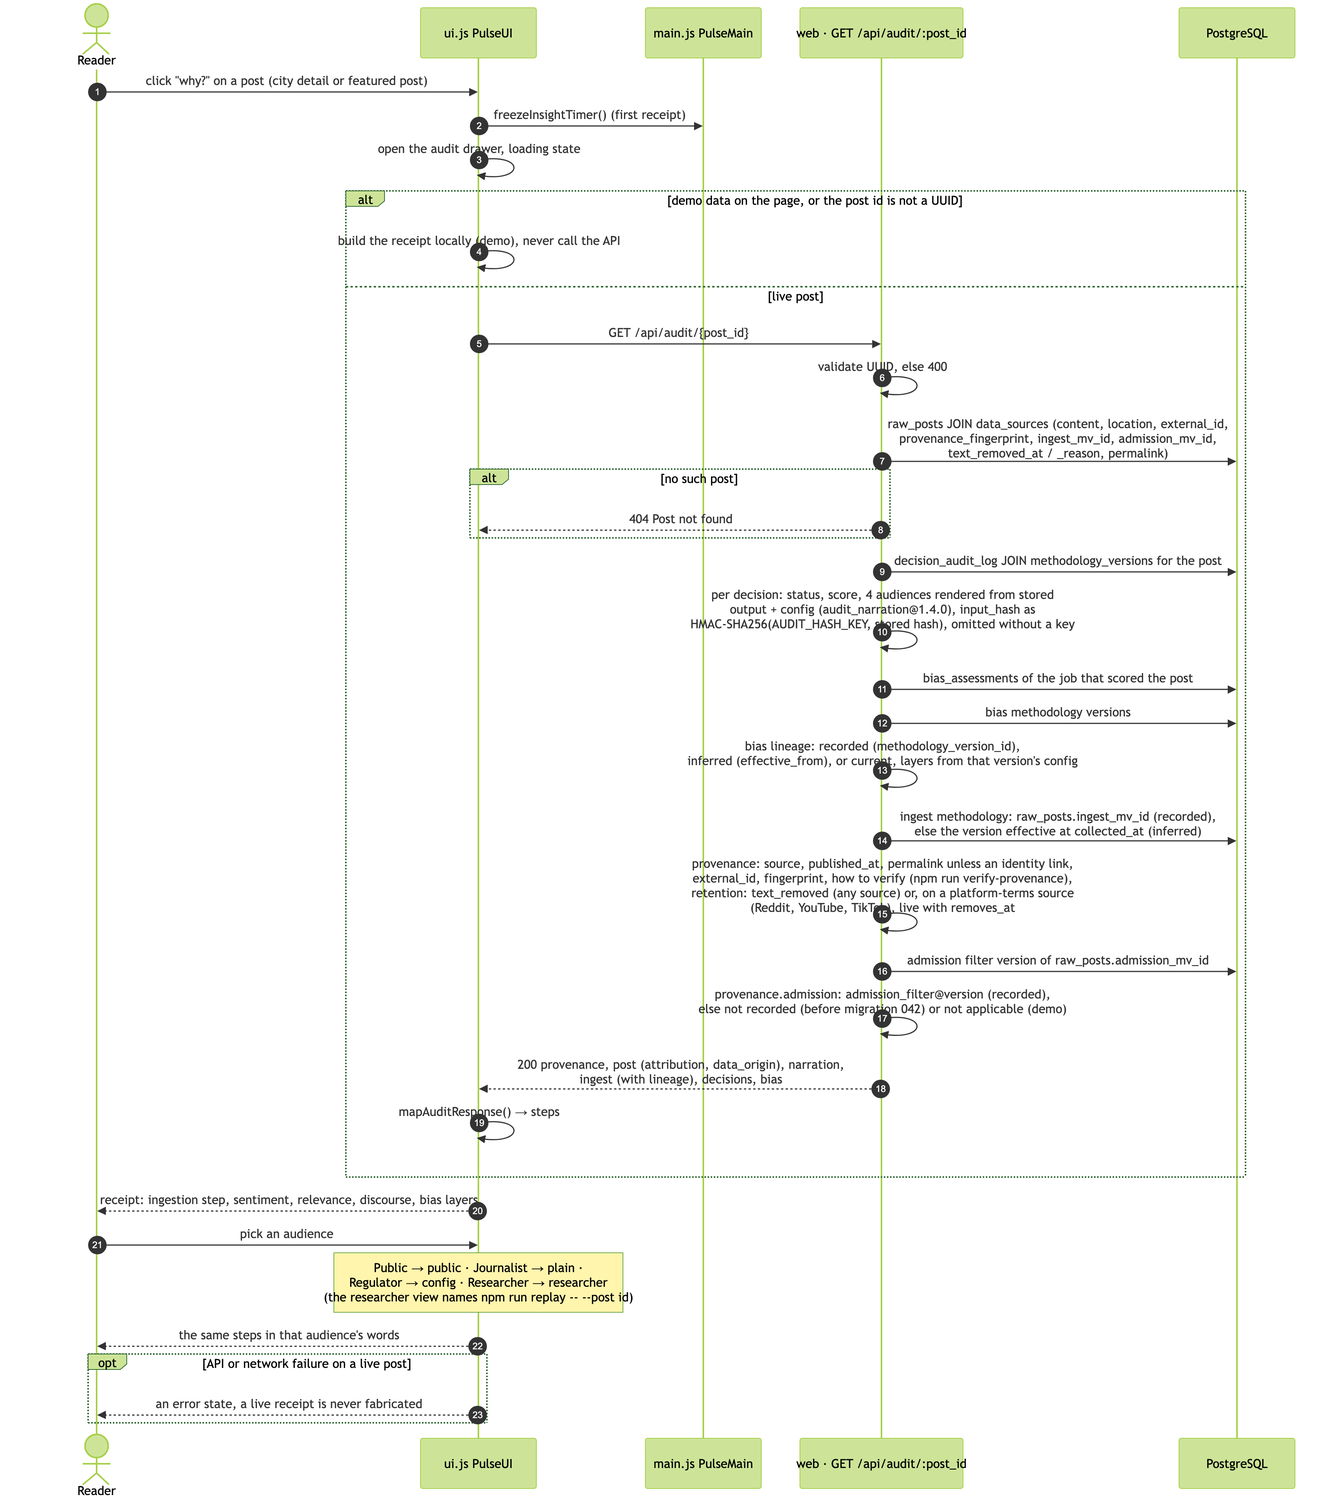
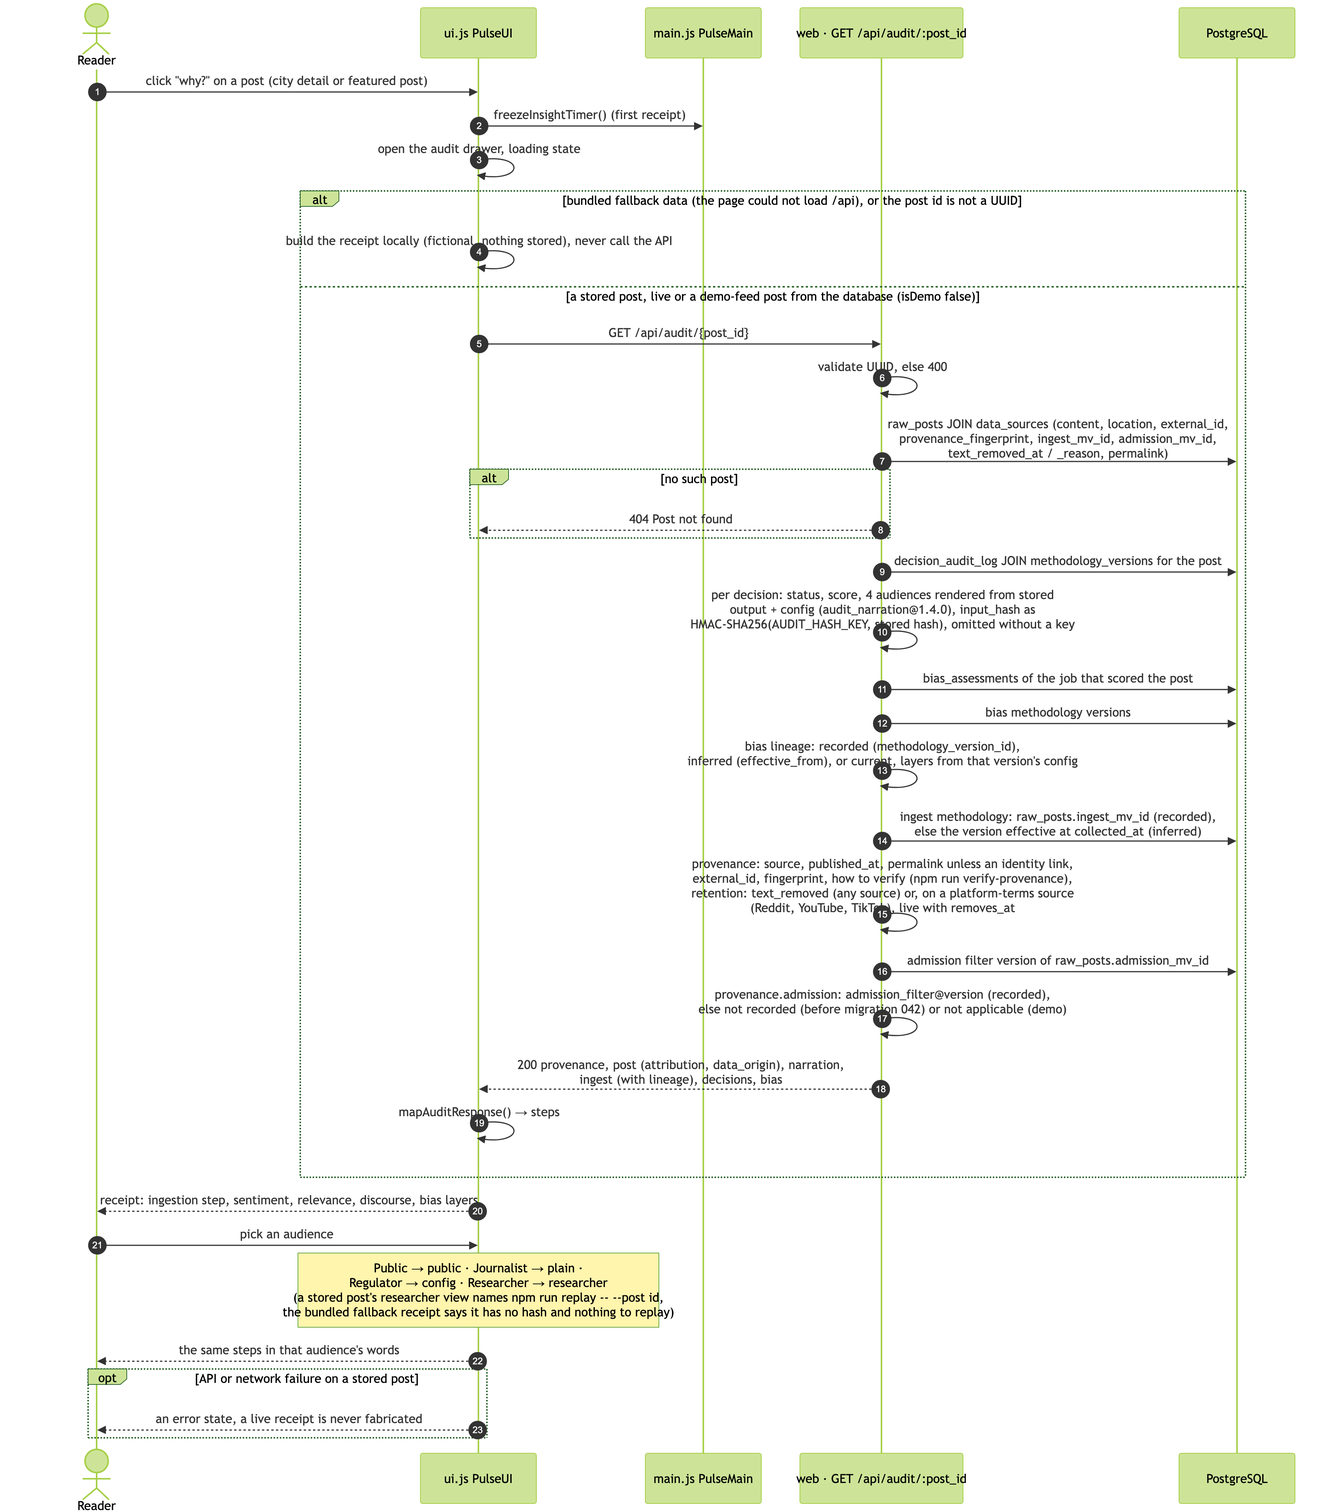
Docs: demo embeddings depend on the service; fallback receipts only skip the API
Copilot review on PR #40:
- Spec §12, data-flow-demo-and-retention and retention-lifecycle said
  every demo post is queued for embedding. populate.js queues them only
  when the run has embeddings enabled and the service reports
  model_loaded; standup passes --no-embed otherwise, and a later
  populate --once backfills the trailing hour.
- audit-receipt: only bundled fallback data (isDemo) or a non-UUID id
  builds the receipt locally; a stored demo-feed post (isDemo false) goes
  to GET /api/audit like a live one. The researcher note now separates a
  stored post (npm run replay) from the bundled fallback receipt (no hash,
  nothing to replay), and the error branch names stored posts.
- §21 describes the about panel's viewport bound and the new e2e case.

PNGs and HTML re-rendered; MANIFEST sizes for data-flow-demo-and-retention
(5342x4832) and audit-receipt (3452x3912). render.sh --check: 21/21 ok.

diff --git a/docs/diagrams/sequences/audit-receipt.html b/docs/diagrams/sequences/audit-receipt.html
@@ -29,7 +29,7 @@
 <pre class="mermaid">
 %% Title: Sequence · the "why?" audit receipt
 %% Summary: What happens when a reader opens a post's receipt: the drawer request, the queries behind GET /api/audit/:post_id, the provenance and lineage it adds, and the four audience views the drawer switches between.
-%% Sources: public/js/ui.js (openAudit, mapAuditResponse, AUDIENCES), src/routes/audit.js, src/config/{audit-narration,bias-lineage,bias-vocabulary,source-registry,data-mode}.js, src/collectors/retention.js (retentionStatus), src/db/migrations/042_admission_filter.sql. Updated 2026-09-30. Spec: TECHNICAL_SPEC.md sections 7 (GET /api/audit/:post_id), 8 (provenance), 10 (explainability chain, audiences).
+%% Sources: public/js/ui.js (openAudit, mapAuditResponse, AUDIENCES), src/routes/audit.js, src/config/{audit-narration,bias-lineage,bias-vocabulary,source-registry,data-mode}.js, src/collectors/retention.js (retentionStatus), src/db/migrations/042_admission_filter.sql. Updated 2026-10-01. Spec: TECHNICAL_SPEC.md sections 7 (GET /api/audit/:post_id), 8 (provenance), 10 (explainability chain, audiences).
 sequenceDiagram
   autonumber
   actor Reader
@@ -41,9 +41,9 @@ sequenceDiagram
   Reader-&gt;&gt;UI: click "why?" on a post (city detail or featured post)
   UI-&gt;&gt;Main: freezeInsightTimer() (first receipt)
   UI-&gt;&gt;UI: open the audit drawer, loading state
-  alt demo data on the page, or the post id is not a UUID
-    UI-&gt;&gt;UI: build the receipt locally (demo), never call the API
-  else live post
+  alt bundled fallback data (the page could not load /api), or the post id is not a UUID
+    UI-&gt;&gt;UI: build the receipt locally (fictional, nothing stored), never call the API
+  else a stored post, live or a demo-feed post from the database (isDemo false)
     UI-&gt;&gt;API: GET /api/audit/{post_id}
     API-&gt;&gt;API: validate UUID, else 400
     API-&gt;&gt;DB: raw_posts JOIN data_sources (content, location, external_id,&lt;br/&gt;provenance_fingerprint, ingest_mv_id, admission_mv_id,&lt;br/&gt;text_removed_at / _reason, permalink)
@@ -65,9 +65,9 @@ sequenceDiagram
   UI--&gt;&gt;Reader: receipt: ingestion step, sentiment, relevance, discourse, bias layers
 
   Reader-&gt;&gt;UI: pick an audience
-  Note over UI: Public → public · Journalist → plain ·&lt;br/&gt;Regulator → config · Researcher → researcher&lt;br/&gt;(the researcher view names npm run replay -- --post id)
+  Note over UI: Public → public · Journalist → plain ·&lt;br/&gt;Regulator → config · Researcher → researcher&lt;br/&gt;(a stored post's researcher view names npm run replay -- --post id,&lt;br/&gt;the bundled fallback receipt says it has no hash and nothing to replay)
   UI--&gt;&gt;Reader: the same steps in that audience's words
-  opt API or network failure on a live post
+  opt API or network failure on a stored post
     UI--&gt;&gt;Reader: an error state, a live receipt is never fabricated
   end
 </pre>

diff --git a/docs/diagrams/flows/data-flow-demo-and-retention.html b/docs/diagrams/flows/data-flow-demo-and-retention.html
@@ -40,7 +40,7 @@ flowchart LR
     M9{"--once, no --force: hour already holds&lt;br/&gt;--size demo posts, no live posts and&lt;br/&gt;collection unavailable? (checked first)"}:::done
     M4["populate --loop (profile demo)&lt;br/&gt;every DEMO_FEED_INTERVAL_MS (150 s):&lt;br/&gt;DEMO_FEED_BATCH posts (default 16,&lt;br/&gt;two per category) only while the hour has no live posts"]:::done
     M5["fictional posts: text starts with [Demo],&lt;br/&gt;raw_payload demo: true, fictional: true,&lt;br/&gt;under data_sources demo_#lt;category#gt;&lt;br/&gt;(source_type demo, active false)"]:::done
-    M6["normalisePost → raw_posts (collected_at = now)&lt;br/&gt;→ saveSentiment / saveRelevance / saveDQI&lt;br/&gt;with audit rows → runBiasChecks&lt;br/&gt;→ embed jobs; processing_jobs triggered_by demo"]:::done
+    M6["normalisePost → raw_posts (collected_at = now)&lt;br/&gt;→ saveSentiment / saveRelevance / saveDQI&lt;br/&gt;with audit rows → runBiasChecks&lt;br/&gt;→ embed jobs only when embeddings are enabled and&lt;br/&gt;the service is ready (standup otherwise passes --no-embed;&lt;br/&gt;a later --once backfills the hour); processing_jobs triggered_by demo"]:::done
     M7["labelled on the way out: data_mode on /api/health,&lt;br/&gt;demo_posts + data_mode per city row,&lt;br/&gt;data_origin on receipts → DEMO kicker,&lt;br/&gt;Demo data markers, demo receipt wording"]:::done
     M8["no demo post written;&lt;br/&gt;the page reads LIVE"]:::done
     M10["collection and batch skipped; only missing&lt;br/&gt;demo embeddings are backfilled"]:::done

diff --git a/docs/diagrams/states/retention-lifecycle.html b/docs/diagrams/states/retention-lifecycle.html
@@ -33,7 +33,7 @@
 stateDiagram-v2
   direction LR
 
-  [*] --&gt; detail : stored (raw_posts, scores, audit rows, embedding for a live post with relevance ≥ 1/21 and for every demo post)
+  [*] --&gt; detail : stored (raw_posts, scores, audit rows) with an embed job for a live post with relevance ≥ 1/21 and for a demo post, when the run has embeddings enabled and the service ready (a later populate --once backfills the hour)
 
   state "Tier 1 · full detail&lt;br/&gt;shown on the page for its trailing hour,&lt;br/&gt;receipt available" as detail
   state "text blanked, platform terms&lt;br/&gt;content = the source's removal notice,&lt;br/&gt;text_removed_at set, embedding deleted&lt;br/&gt;in the same transaction (G3);&lt;br/&gt;scores, audit rows, hash, fingerprint kept" as blanked

diff --git a/docs/diagrams/MANIFEST-author.md b/docs/diagrams/MANIFEST-author.md
@@ -15,14 +15,14 @@ How to verify the artifacts: `bash docs/diagrams/render.sh --check` confirms tha
 | 5 | `flows/collection-2-fetch-store-score.mmd` | 6492×1372 | src/collectors/{index,base,http,netguard,transport,robots,normalize,identity,provenance,errors,redact,state,refusal,cycle,runner,ai-filter}.js, src/workers/{collect,ingest}.worker.js, src/pipeline/{ingest,sentiment,relevance,discourse,methodology}.js, src/config/methodology-registry.js; migrations 022, 031, 040, 042, 062. Spec: TECHNICAL_SPEC.md section 8 (PII handling, provenance); ADR 0001 (terms and politeness, D2); PR #22 decision G6. | 8, 17 | done |
 | 6 | `flows/collection-3-cycle-close-bias-alerts.mmd` | 5025×1544 | src/workers/start.js (closeDueCyclesOnce, every 30 s), src/workers/maintenance.worker.js (daily task), src/collectors/cycle.js, src/collectors/sweep.js, src/collectors/{source-health,retention-overdue,source-alerts}.js, src/pipeline/bias.js, src/pipeline/bias-window.js, scripts/bias-window.js, src/workers/{ingest,embed}.worker.js, src/pipeline/embeddings.js, python/embeddings_service.py, src/routes/{health,bias}.js, public/js/{main,ui,utils}.js; migrations 027, 028, 032, 036, 038, 060. Spec: TECHNICAL_SPEC.md sections 9 (bias monitoring, alert flow), 12 (embeddings); PR #22 decision G2. | 9, 12 | done |
 | 7 | `flows/data-flow-live.mmd` | 6982×3464 | src/collectors/runner.js, src/workers/{collect,ingest,maintenance}.worker.js, src/collectors/ai-filter.js, src/pipeline/*.js, src/routes/*.js, public/js/config/api.config.js, public/js/{data,story,ui,main}.js. Spec: TECHNICAL_SPEC.md sections 7 (API), 10 (explainability chain), 11 (user experience). | 7, 10, 11 | done |
-| 8 | `flows/data-flow-demo-and-retention.mmd` | 5342×4544 | scripts/populate.js, scripts/standup.sh, docker-compose.yml (populate, collector settings), src/config/data-mode.js, src/config/source-registry.js (retentionHours, sourceStatus), src/workers/maintenance.worker.js, src/workers/start.js, src/collectors/retention.js, src/collectors/run-retention.js, src/collectors/reddit/{maintenance,recheck}.js, scripts/compact.js; migrations 005, 025, 031, 034, 039. Spec: TECHNICAL_SPEC.md section 19 (layered retention); ADR 0001 ruling 9; PR #22 decisions G3, G4, G5. | 19; ADR 0001 ruling 9 | done |
+| 8 | `flows/data-flow-demo-and-retention.mmd` | 5342×4832 | scripts/populate.js, scripts/standup.sh, docker-compose.yml (populate, collector settings), src/config/data-mode.js, src/config/source-registry.js (retentionHours, sourceStatus), src/workers/maintenance.worker.js, src/workers/start.js, src/collectors/retention.js, src/collectors/run-retention.js, src/collectors/reddit/{maintenance,recheck}.js, scripts/compact.js; migrations 005, 025, 031, 034, 039. Spec: TECHNICAL_SPEC.md section 19 (layered retention); ADR 0001 ruling 9; PR #22 decisions G3, G4, G5. | 19; ADR 0001 ruling 9 | done |
 | 9 | `data/erd-1-sources-and-jobs.mmd` | 7408×4966 | src/db/migrations/001, 003, 013, 016, 018, 019, 020, 021, 023, 025, 033, 037, 038, 040, 050, 062. Alert writers: src/pipeline/bias.js (writeAlertEvent), src/collectors/source-alerts.js, source-health.js, retention-overdue.js, state.js, governance.js, src/watchdog/store.js and conditions.js. raw_posts is shown with its keys only (full columns in data model 2); alert resolutions, run rollups, gate events and the watchdog tables are in data model 4. Dotted lines are logical links without a foreign key. NOTE_alert_type_values is a legend box, not a table. Spec: TECHNICAL_SPEC.md section 6. | 6 | done |
 | 10 | `data/erd-2-posts-scores-audit.mmd` | 6216×4962 | src/db/migrations/001, 002, 003, 004, 006, 010, 012, 017, 022, 025, 042; src/pipeline/ingest.js (insert), src/collectors/retention.js (blanking), src/config/methodology-registry.js (components). The rolling-window bias tables (060) are in data model 4. Spec: TECHNICAL_SPEC.md sections 6 and 10 (the explainability chain). data_sources and processing_jobs are shown with their keys only (full columns in data model 1). | 6, 10 | done |
 | 11 | `data/erd-3-retention-and-correlation.mmd` | 5272×1272 | src/db/migrations/002 (data_retention_log), 005, 006, 036 and 056 (correlation_gate_events, append-only trigger); scripts/migrate.js (schema_migrations). Writers: src/pipeline/ingest.js (collected), src/collectors/retention.js (blanked_platform_terms, text_removed_detail_window), src/collectors/run-retention.js (rolled_up_source_runs), scripts/compact.js (compacted, purged_demo, compaction_log), src/collectors/governance.js (correlation_gate_events, with the status from src/pipeline/correlation-gate.js), scripts/compact.js (demo purge of user_platform_sightings and pseudonymous_users); src/pipeline/correlation.js writes nothing (correlateUser throws). Spec: TECHNICAL_SPEC.md sections 19 (layered retention) and 20 (correlation). raw_posts and data_sources are shown with their keys only. Dotted lines are logical links without a foreign key. | 19, 20 | done |
 | 12 | `model/collector-framework.mmd` | 4787×3414 | src/collectors/{base,index,http,robots,netguard,transport,errors,runner,cycle,state,refusal,status,retention,normalize,identity,provenance,redact,ai-filter,governance,terms-text,source-health,source-alerts,retention-overdue,run-retention,stale-jobs,sweep}.js, src/collectors/adapters/*.js, src/collectors/reddit/{api,budget}.js, src/config/source-registry.js. Spec: ADR 0001 (strategy / adapter pattern, gate status); TECHNICAL_SPEC.md section 17. | 17; ADR 0001 | done |
 | 13 | `model/pipeline-and-workers.mmd` | 4586×3131 | src/pipeline/*.js, src/collectors/ai-filter.js, src/queues/{index,connection,pending}.js, src/workers/*.js, src/collectors/runner.js (single-job finalization), src/db/pool-size.js (workerConcurrency), src/audit/replay.js, src/watchdog/*.js, scripts/watchdog.js, src/config/methodology-registry.js (CURRENT_VERSIONS), docker-compose.yml (redis service = Valkey 8). Updated 2026-10-01. Spec: TECHNICAL_SPEC.md sections 9, 10, 12, 18, 19, 20. Versions are CURRENT_VERSIONS of the methodology registry. | 9, 10, 12, 18, 19, 20 | done |
 | 14 | `model/frontend-modules.mmd` | 7130×4278 | public/index.html (script order), public/js/*.js, public/js/config/*.js. Updated 2026-09-29 (PR #22: the watchdog SYSTEM ALERT chip and banner, the SYSTEM WATCHDOG drawer section, the publisher-location layer). Spec: TECHNICAL_SPEC.md section 11; PRD section 4.3 (the FuN.zip prototype is the design of record). | 11; PRD 4.3 | done |
-| 15 | `sequences/audit-receipt.mmd` | 3452×3874 | public/js/ui.js (openAudit, mapAuditResponse, AUDIENCES), src/routes/audit.js, src/config/{audit-narration,bias-lineage,bias-vocabulary,source-registry,data-mode}.js, src/collectors/retention.js (retentionStatus), src/db/migrations/042_admission_filter.sql. Updated 2026-09-30. Spec: TECHNICAL_SPEC.md sections 7 (GET /api/audit/:post_id), 8 (provenance), 10 (explainability chain, audiences). | 7, 8, 10 | done |
+| 15 | `sequences/audit-receipt.mmd` | 3452×3912 | public/js/ui.js (openAudit, mapAuditResponse, AUDIENCES), src/routes/audit.js, src/config/{audit-narration,bias-lineage,bias-vocabulary,source-registry,data-mode}.js, src/collectors/retention.js (retentionStatus), src/db/migrations/042_admission_filter.sql. Updated 2026-10-01. Spec: TECHNICAL_SPEC.md sections 7 (GET /api/audit/:post_id), 8 (provenance), 10 (explainability chain, audiences). | 7, 8, 10 | done |
 | 16 | `sequences/refresh.mmd` | 4828×4304 | src/routes/refresh.js (refreshTokenCheck, boundBeyondLoopback, viaProxy), src/middleware/same-origin.js, src/server.js (mount order, no CORS, listenHost), src/queues/index.js (collect.refresh, ingest), src/workers/collect.worker.js (processRefreshJob, refreshDeadlineMs), src/collectors/runner.js (scoreVia queue), src/workers/ingest.worker.js, src/collectors/cycle.js (reserveRetry, releaseRetry, closeCycles, jobPostsProcessed), src/pipeline/bias.js (runBiasChecks), src/collectors/stale-jobs.js, src/db/migrations/019_refresh_inflight.sql, 040_job_progress.sql. Updated 2026-09-30. Spec: TECHNICAL_SPEC.md section 7 (POST /api/refresh) and section 8 (rate limiting). The page itself never calls this endpoint. | 7, 8 | done |
 | 17 | `states/source-gate-status.mmd` | 7162×3630 | src/config/source-registry.js (GATE_STATUSES, sourceStatus, killReason, openRoutes, routesAwaitingApproval, namedApproval, isGatedRoute), src/collectors/status.js (registryFields, isOnline, RUNTIME_STATUSES), src/collectors/refusal.js (refusalGate, envReset), src/collectors/state.js, src/collectors/governance.js (recordGateTransitions), scripts/source-admin.js; migrations 018, 020, 035, 056. Spec: TECHNICAL_SPEC.md section 17; ADR 0001 (gate status, kill switches, the blocked 4, the refused state, D1); PR #22 decision G5 (named approval). | 17; ADR 0001 | done |
 | 18 | `states/story-beats.mmd` | 4483×893 | public/js/config/story.config.js (STORY, 11 beats), public/js/story.js (onScroll, jump, explore threshold, pulse:* events), public/js/main.js (scrollToExplore, about panel), public/js/config/legal.config.js, public/js/ui.js (explore chrome, drawers), public/index.html. Spec: TECHNICAL_SPEC.md section 11; PRD section 4.3 (FuN.zip prototype). | 11; PRD 4.3 | done |

diff --git a/docs/TECHNICAL_SPEC.md b/docs/TECHNICAL_SPEC.md
@@ -1537,7 +1537,7 @@ infinity_emb v2 \
 The code comments name the FastAPI service that runs and describe Infinity as the planned alternative (`src/pipeline/embeddings.js`, `python/embeddings_service.py`, `python/requirements.txt`); only the header comment of migration `004_vector_support.sql` still says the embeddings are generated by "the Infinity service".
 
 ### Node.js Integration (`src/pipeline/embeddings.js`, `src/workers/embed.worker.js`)
-- One `embed` job is queued per new post whose relevance score is at least 1/21 (one lexicon match; `relevance@1.2.0` `embed_gate_min_score`): by the `ingest` worker after scoring for scheduled and refresh runs (job id `embed-<post id>`, so at most once), and by the runner for inline runs (`npm run collect`, the standup). The standup's demo population queues every demo post it writes, without the relevance gate (`scripts/populate.js`), plus any trailing-hour demo post that still has no embedding.
+- One `embed` job is queued per new post whose relevance score is at least 1/21 (one lexicon match; `relevance@1.2.0` `embed_gate_min_score`): by the `ingest` worker after scoring for scheduled and refresh runs (job id `embed-<post id>`, so at most once), and by the runner for inline runs (`npm run collect`, the standup). The demo population (`scripts/populate.js`) queues the demo posts it writes without the relevance gate, but only when the run has embeddings enabled and the service is ready (`GET /health` reports `model_loaded: true`): when the standup finds the service not ready it passes `--no-embed`, and that run stores and scores its posts (live and demo) with no embed jobs. A later `populate --once` with the service ready backfills every trailing-hour demo post that still has no embedding.
 - The `embed` worker (concurrency 4) calls `POST ${EMBEDDINGS_SERVICE_URL}/embeddings` with the model name (the revision is fixed on the service by `EMBED_MODEL_REVISION`) and upserts `post_embeddings`, recording the registered embedding version (`embedding@1.1.0`, the last `embedding` row of `src/config/methodology-registry.js`) only when its own `EMBED_MODEL` / `EMBED_MODEL_REVISION` are the registered ones AND, read right after the service produced the vector, `GET ${EMBEDDINGS_SERVICE_URL}/health` reports the registered model, revision and library (`verifiedMethodologyVersion` in `src/pipeline/embeddings.js`, one GET per job so a service replaced while the worker runs is noticed at once). On a mismatch, or a `/health` that answers without those fields (for example HTTP 404), the vector is stored with `methodology_version` NULL and each distinct mismatch is logged once per process; a `/health` that cannot be read (network error, timeout, HTTP 5xx) fails the job, so it is retried and no unverified stamp is stored. A failure is retried by BullMQ with exponential back-off (5 attempts). A job whose post was purged (a demo post at the retention boundary) or whose text was removed by retention completes as a no-op with the reason recorded, and never embeds a removal notice; the demo purge also removes the pending embed jobs of the posts it deletes (`src/queues/embed-cleanup.js`).
 - There is no in-process embedding cache; the v1.1 `content_hash → vector` cache is not implemented (duplicates are dropped per source by `(source_id, external_id)`; the content hash plays no part).
 
@@ -2333,7 +2333,7 @@ Before shipping this feature:
   4. `Additional terms (AGPL section 7(b))` → `ADDITIONAL-TERMS.md`
   5. `Source code` → `SOURCE_URL`
   6. `No warranty: provided "as is", without warranty of any kind (AGPL sections 15 and 16).`
-- **Rendering:** `public/js/main.js` `renderLegalNotice` builds the header "about" panel (`#about-panel`, `role="region"`, hidden by default) with `createElement` + `textContent` only. The about chip toggles it and sets `aria-expanded`; Escape closes it. Closing it by Escape or by the chip returns focus to the chip when focus was inside the panel (or on the page body), so it never stays in the hidden subtree, including in Safari, where a click does not focus the button; focus elsewhere on the page is left where it is. Links carry `rel="noopener noreferrer"` and no `target`. All hrefs are static https constants; no API data reaches an href.
+- **Rendering:** `public/js/main.js` `renderLegalNotice` builds the header "about" panel (`#about-panel`, `role="region"`, hidden by default) with `createElement` + `textContent` only. The about chip toggles it and sets `aria-expanded`; Escape closes it. Closing it by Escape or by the chip returns focus to the chip when focus was inside the panel (or on the page body), so it never stays in the hidden subtree, including in Safari, where a click does not focus the button; focus elsewhere on the page is left where it is. The panel is bounded to the viewport below it and scrolls, so every notice stays reachable at a narrow or zoomed viewport (`public/styles/main.css`). Links carry `rel="noopener noreferrer"` and no `target`. All hrefs are static https constants; no API data reaches an href.
 - **No-JS:** `public/index.html` repeats the same six lines, texts and links inside `<noscript>`.
 - **CSP:** the config loads as an external `<script src>` before `main.js`; no inline script or style is added, and styling lives in `styles/main.css`.
-- **Tests:** `tests/unit/pure/legalNotice.test.js` pins the literal texts and URLs, the noscript copy, the absence of inline `style=` and of `innerHTML`-family writes, the `LICENSE` header, the package licence and the additional terms. `tests/e2e/legal-notice.spec.ts` asserts the rendered panel, its links, the Escape behaviour and focus return on a chip click that does not move focus, with zero console errors.
+- **Tests:** `tests/unit/pure/legalNotice.test.js` pins the literal texts and URLs, the noscript copy, the absence of inline `style=` and of `innerHTML`-family writes, the `LICENSE` header, the package licence and the additional terms. `tests/e2e/legal-notice.spec.ts` asserts the rendered panel, its links, the Escape behaviour, focus return on a chip click that does not move focus, and a 320 × 240 viewport where the panel stays inside the viewport and scrolls to the last notice, with zero console errors.
